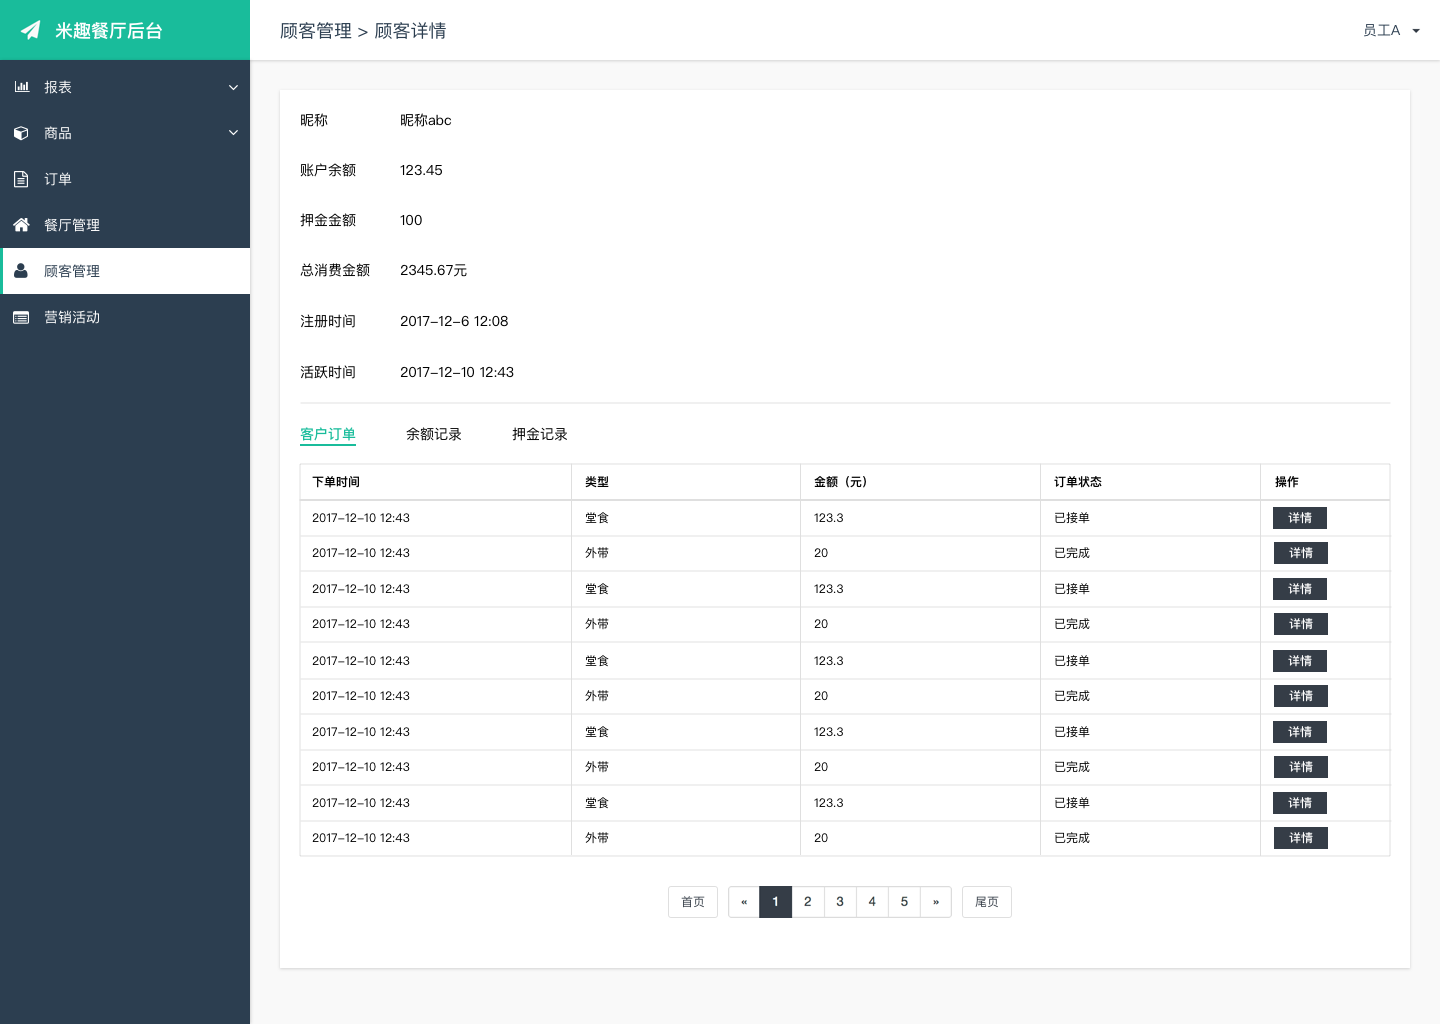
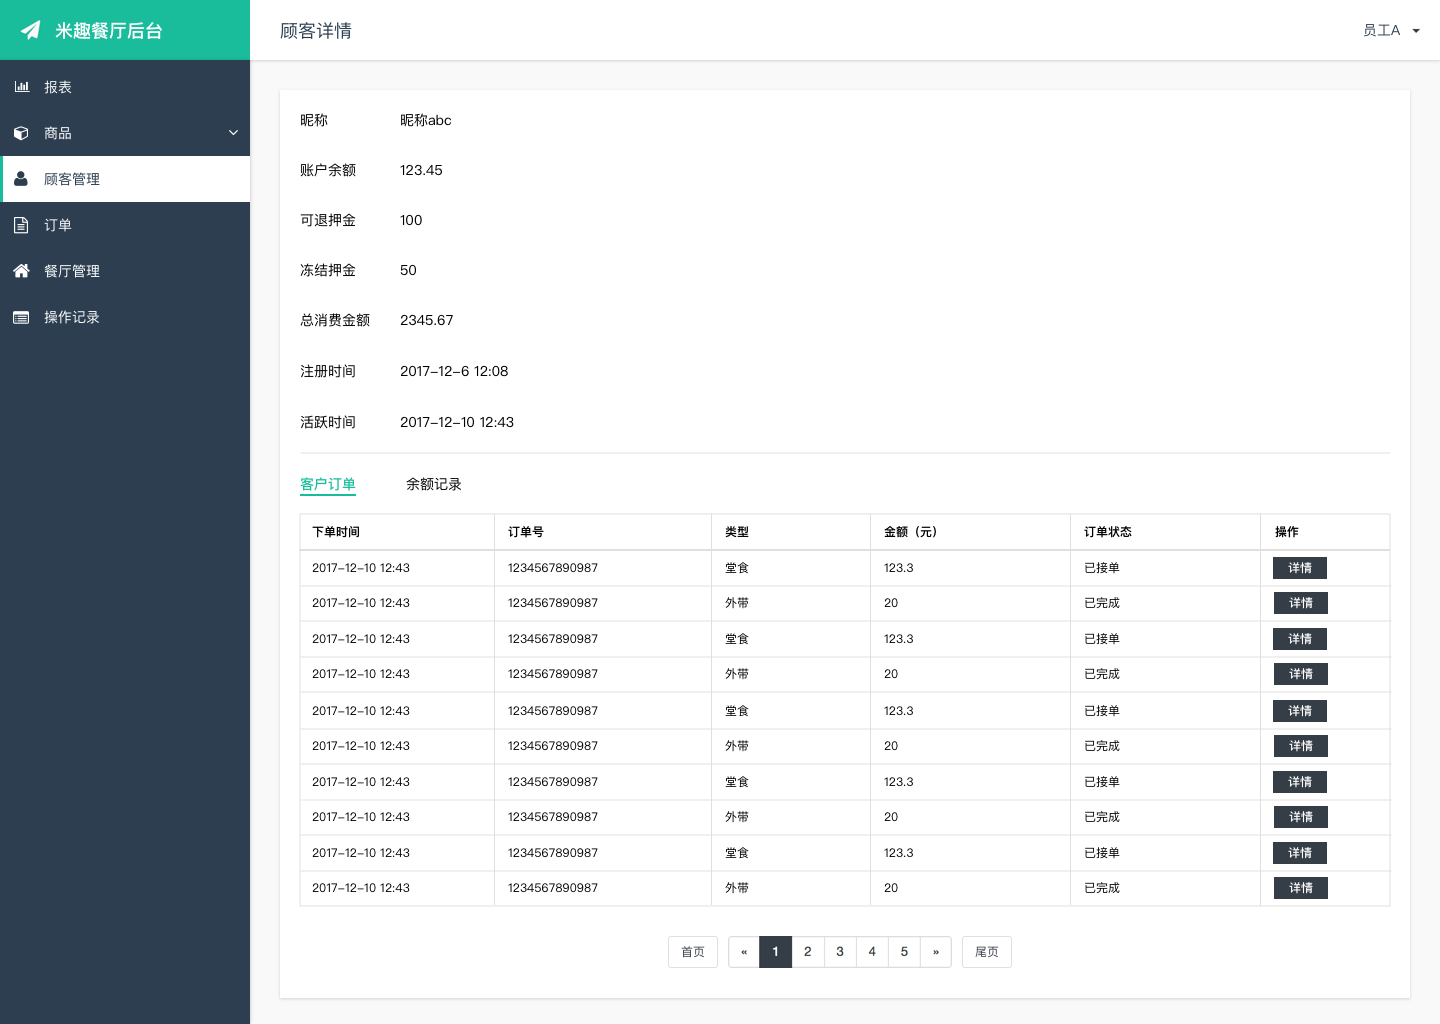
guest

diff --git a/files/d11顾客详情/data.js b/files/d11顾客详情/data.js
@@ -1,7 +1,7 @@
 $axure.loadCurrentPage(
 (function() {
     var _ = function() { var r={},a=arguments; for(var i=0; i<a.length; i+=2) r[a[i]]=a[i+1]; return r; }
-    var _creator = function() { return _(b,c,d,e,f,g,h,g,i,[j],k,_(l,m,n,o,p,q,r,_(),s,_(t,u,v,w,x,_(y,z,A,B),C,null,D,w,E,w,F,G,H,null,I,J,K,L,M,N,O,J),P,_(),Q,_(),R,_(S,[_(T,U,V,W,X,Y,n,Z,ba,Z,bb,bc,s,_(bd,_(be,bf,bg,bh),t,bi,bj,_(bk,bl,bm,bl)),P,_(),bn,_(),S,[_(T,bo,V,W,X,null,bp,bc,n,bq,ba,br,bb,bc,s,_(bd,_(be,bf,bg,bh),t,bi,bj,_(bk,bl,bm,bl)),P,_(),bn,_())],bs,_(bt,bu)),_(T,bv,V,W,X,bw,n,bx,ba,bx,bb,bc,s,_(t,by,bj,_(bk,bz,bm,bA)),P,_(),bn,_(),S,[_(T,bB,V,W,X,null,bp,bc,n,bq,ba,br,bb,bc,s,_(t,by,bj,_(bk,bz,bm,bA)),P,_(),bn,_())],bs,_(bC,bD,bE,bF,bG,bH,bI,bJ)),_(T,bK,V,W,X,bL,n,bM,ba,bM,bb,bc,s,_(bN,bO,bd,_(be,bP,bg,bl),t,bQ,bj,_(bk,bR,bm,bS),bT,_(y,z,A,bU,bV,bW),bX,bY),P,_(),bn,_(),S,[_(T,bZ,V,W,X,null,bp,bc,n,bq,ba,br,bb,bc,s,_(bN,bO,bd,_(be,bP,bg,bl),t,bQ,bj,_(bk,bR,bm,bS),bT,_(y,z,A,bU,bV,bW),bX,bY),P,_(),bn,_())],ca,g),_(T,cb,V,W,X,bw,n,bx,ba,bx,bb,bc,s,_(t,by,bj,_(bk,cc,bm,cd)),P,_(),bn,_(),S,[_(T,ce,V,W,X,null,bp,bc,n,bq,ba,br,bb,bc,s,_(t,by,bj,_(bk,cc,bm,cd)),P,_(),bn,_())],bs,_(bC,cf,bE,cg,bG,ch)),_(T,ci,V,W,X,bL,n,bM,ba,bM,bb,bc,s,_(bN,bO,bd,_(be,cj,bg,bl),t,bQ,bj,_(bk,ck,bm,cl),bT,_(y,z,A,bU,bV,bW),bX,bY),P,_(),bn,_(),S,[_(T,cm,V,W,X,null,bp,bc,n,bq,ba,br,bb,bc,s,_(bN,bO,bd,_(be,cj,bg,bl),t,bQ,bj,_(bk,ck,bm,cl),bT,_(y,z,A,bU,bV,bW),bX,bY),P,_(),bn,_())],ca,g),_(T,cn,V,W,X,Y,n,Z,ba,Z,bb,bc,s,_(bd,_(be,bf,bg,bh),t,bi,bj,_(bk,bl,bm,co)),P,_(),bn,_(),S,[_(T,cp,V,W,X,null,bp,bc,n,bq,ba,br,bb,bc,s,_(bd,_(be,bf,bg,bh),t,bi,bj,_(bk,bl,bm,co)),P,_(),bn,_())],bs,_(bt,cq)),_(T,cr,V,W,X,Y,n,Z,ba,Z,bb,bc,s,_(bd,_(be,bf,bg,bh),t,bi,bj,_(bk,bl,bm,cs)),P,_(),bn,_(),S,[_(T,ct,V,W,X,null,bp,bc,n,bq,ba,br,bb,bc,s,_(bd,_(be,bf,bg,bh),t,bi,bj,_(bk,bl,bm,cs)),P,_(),bn,_())],bs,_(bt,cu)),_(T,cv,V,W,X,bw,n,bx,ba,bx,bb,bc,s,_(t,by,bj,_(bk,cw,bm,cx)),P,_(),bn,_(),S,[_(T,cy,V,W,X,null,bp,bc,n,bq,ba,br,bb,bc,s,_(t,by,bj,_(bk,cw,bm,cx)),P,_(),bn,_())],bs,_(bC,cz,bE,ch)),_(T,cA,V,W,X,bL,n,bM,ba,bM,bb,bc,s,_(bN,bO,bd,_(be,cB,bg,bl),t,bQ,bj,_(bk,cC,bm,cD),bT,_(y,z,A,bU,bV,bW),bX,bY),P,_(),bn,_(),S,[_(T,cE,V,W,X,null,bp,bc,n,bq,ba,br,bb,bc,s,_(bN,bO,bd,_(be,cB,bg,bl),t,bQ,bj,_(bk,cC,bm,cD),bT,_(y,z,A,bU,bV,bW),bX,bY),P,_(),bn,_())],ca,g),_(T,cF,V,W,X,bw,n,bx,ba,bx,bb,bc,s,_(t,by,bj,_(bk,cG,bm,cH)),P,_(),bn,_(),S,[_(T,cI,V,W,X,null,bp,bc,n,bq,ba,br,bb,bc,s,_(t,by,bj,_(bk,cG,bm,cH)),P,_(),bn,_())],bs,_(bC,cJ,bE,cK,bG,ch)),_(T,cL,V,W,X,bL,n,bM,ba,bM,bb,bc,s,_(bN,bO,bd,_(be,cB,bg,bl),t,bQ,bj,_(bk,cM,bm,cN),bT,_(y,z,A,bU,bV,bW),bX,bY),P,_(),bn,_(),S,[_(T,cO,V,W,X,null,bp,bc,n,bq,ba,br,bb,bc,s,_(bN,bO,bd,_(be,cB,bg,bl),t,bQ,bj,_(bk,cM,bm,cN),bT,_(y,z,A,bU,bV,bW),bX,bY),P,_(),bn,_())],ca,g)])),cP,_(),cQ,_(cR,_(cS,cT),cU,_(cS,cV),cW,_(cS,cX),cY,_(cS,cZ),da,_(cS,db),dc,_(cS,dd),de,_(cS,df),dg,_(cS,dh),di,_(cS,dj),dk,_(cS,dl),dm,_(cS,dn),dp,_(cS,dq),dr,_(cS,ds),dt,_(cS,du),dv,_(cS,dw),dx,_(cS,dy),dz,_(cS,dA),dB,_(cS,dC),dD,_(cS,dE),dF,_(cS,dG),dH,_(cS,dI),dJ,_(cS,dK)));}; 
-var b="url",c="d11顾客详情.html",d="generationDate",e=new Date(1512615312652.13),f="isCanvasEnabled",g=false,h="isAdaptiveEnabled",i="variables",j="OnLoadVariable",k="page",l="packageId",m="a7fbc9f8a46042c29b374ab9f04f3600",n="type",o="Axure:Page",p="name",q="D11顾客详情",r="notes",s="style",t="baseStyle",u="627587b6038d43cca051c114ac41ad32",v="pageAlignment",w="near",x="fill",y="fillType",z="solid",A="color",B=0xFFFFFFFF,C="image",D="imageHorizontalAlignment",E="imageVerticalAlignment",F="imageRepeat",G="auto",H="favicon",I="sketchFactor",J="0",K="colorStyle",L="appliedColor",M="fontName",N="Applied Font",O="borderWidth",P="adaptiveStyles",Q="interactionMap",R="diagram",S="objects",T="id",U="577031b7fb6a4a74a74490f616cc4025",V="label",W="",X="friendlyType",Y="图片",Z="imageBox",ba="styleType",bb="visible",bc=true,bd="size",be="width",bf=1200,bg="height",bh=853,bi="75a91ee5b9d042cfa01b8d565fe289c0",bj="location",bk="x",bl=20,bm="y",bn="imageOverrides",bo="49e597aaccd94044a09d335a2d01bc1f",bp="isContained",bq="richTextPanel",br="paragraph",bs="images",bt="normal~",bu="images/d11顾客详情/regen/u0.png",bv="05545ae516f84eaebd1bbb819994627a",bw="连接线",bx="connector",by="699a012e142a4bcba964d96e88b88bdf",bz=457.333333333333,bA=330.666666666667,bB="b977aaa5d0344440997c1f4cd4866df8",bC="0~",bD="images/d11顾客详情/regen/u2_seg0.png",bE="1~",bF="images/d11顾客详情/regen/u2_seg1.png",bG="2~",bH="images/d11顾客详情/regen/u2_seg2.png",bI="3~",bJ="images/d11顾客详情/regen/u2_seg3.png",bK="a4954d6bfb1b4527aa94bfa44525c377",bL="矩形",bM="vectorShape",bN="fontWeight",bO="700",bP=85,bQ="8c7a4c5ad69a4369a5f7788171ac0b32",bR=543,bS=321,bT="foreGroundFill",bU=0xFFFF6699,bV="opacity",bW=1,bX="fontSize",bY="14px",bZ="238312c9a6264a63b20802d9c756155f",ca="generateCompound",cb="0f3c440de45d4e29a81dbd4feace34ac",cc=1126,cd=451,ce="2e68c729e68d494f83094353cdb42b35",cf="images/d11顾客详情/regen/u6_seg0.png",cg="images/d11顾客详情/regen/u6_seg1.png",ch="images/d11顾客详情/regen/u6_seg2.png",ci="c044acaa484243bfbf85267702054073",cj=111,ck=1211,cl=444,cm="9cdafcddbafb429bbcd159956279dccf",cn="4d1497a770944eb5be64d60600ade4bb",co=904,cp="428d90ae474d4db5b9c4386424e99dd5",cq="images/d11顾客详情/regen/u10.png",cr="a80e4d2475514d899bd2260c87908f36",cs=1787,ct="956c8dfaf3824b2ba07cafe84f20ad7f",cu="images/d11顾客详情/regen/u12.png",cv="7581de152e754d1a95efc700ef75cd36",cw=499.333333333333,cx=382,cy="dd748804397b41f28acb109ab697aca0",cz="images/d11顾客详情/regen/u14_seg0.png",cA="f9fbd72cdf8a4863bfc005bff6909b7b",cB=57,cC=557,cD=373,cE="4972152e44d34a168ad4d9d9d86140b2",cF="f5c2983f595440e3be8064bb6eb81286",cG=314,cH=732,cI="ca41da40125447c1870ad103ce132013",cJ="images/d11顾客详情/regen/u18_seg0.png",cK="images/d11顾客详情/regen/u18_seg1.png",cL="06e3d22391c14e4fa609a925c4930942",cM=362,cN=763,cO="2dc7bb2afcc549fbb1c70f9670675fa8",cP="masters",cQ="objectPaths",cR="577031b7fb6a4a74a74490f616cc4025",cS="scriptId",cT="u0",cU="49e597aaccd94044a09d335a2d01bc1f",cV="u1",cW="05545ae516f84eaebd1bbb819994627a",cX="u2",cY="b977aaa5d0344440997c1f4cd4866df8",cZ="u3",da="a4954d6bfb1b4527aa94bfa44525c377",db="u4",dc="238312c9a6264a63b20802d9c756155f",dd="u5",de="0f3c440de45d4e29a81dbd4feace34ac",df="u6",dg="2e68c729e68d494f83094353cdb42b35",dh="u7",di="c044acaa484243bfbf85267702054073",dj="u8",dk="9cdafcddbafb429bbcd159956279dccf",dl="u9",dm="4d1497a770944eb5be64d60600ade4bb",dn="u10",dp="428d90ae474d4db5b9c4386424e99dd5",dq="u11",dr="a80e4d2475514d899bd2260c87908f36",ds="u12",dt="956c8dfaf3824b2ba07cafe84f20ad7f",du="u13",dv="7581de152e754d1a95efc700ef75cd36",dw="u14",dx="dd748804397b41f28acb109ab697aca0",dy="u15",dz="f9fbd72cdf8a4863bfc005bff6909b7b",dA="u16",dB="4972152e44d34a168ad4d9d9d86140b2",dC="u17",dD="f5c2983f595440e3be8064bb6eb81286",dE="u18",dF="ca41da40125447c1870ad103ce132013",dG="u19",dH="06e3d22391c14e4fa609a925c4930942",dI="u20",dJ="2dc7bb2afcc549fbb1c70f9670675fa8",dK="u21";
+    var _creator = function() { return _(b,c,d,e,f,g,h,g,i,[j],k,_(l,m,n,o,p,q,r,_(),s,_(t,u,v,w,x,_(y,z,A,B),C,null,D,w,E,w,F,G,H,null,I,J,K,L,M,N,O,J),P,_(),Q,_(),R,_(S,[_(T,U,V,W,X,Y,n,Z,ba,Z,bb,bc,s,_(bd,_(be,bf,bg,bh),t,bi,bj,_(bk,bl,bm,bl)),P,_(),bn,_(),S,[_(T,bo,V,W,X,null,bp,bc,n,bq,ba,br,bb,bc,s,_(bd,_(be,bf,bg,bh),t,bi,bj,_(bk,bl,bm,bl)),P,_(),bn,_())],bs,_(bt,bu)),_(T,bv,V,W,X,bw,n,bx,ba,bx,bb,bc,s,_(t,by,bj,_(bk,bz,bm,bA)),P,_(),bn,_(),S,[_(T,bB,V,W,X,null,bp,bc,n,bq,ba,br,bb,bc,s,_(t,by,bj,_(bk,bz,bm,bA)),P,_(),bn,_())],bs,_(bC,bD,bE,bF,bG,bH,bI,bJ)),_(T,bK,V,W,X,bL,n,bM,ba,bM,bb,bc,s,_(bN,bO,bd,_(be,bP,bg,bl),t,bQ,bj,_(bk,bR,bm,bS),bT,_(y,z,A,bU,bV,bW),bX,bY),P,_(),bn,_(),S,[_(T,bZ,V,W,X,null,bp,bc,n,bq,ba,br,bb,bc,s,_(bN,bO,bd,_(be,bP,bg,bl),t,bQ,bj,_(bk,bR,bm,bS),bT,_(y,z,A,bU,bV,bW),bX,bY),P,_(),bn,_())],ca,g),_(T,cb,V,W,X,bw,n,bx,ba,bx,bb,bc,s,_(t,by,bj,_(bk,cc,bm,cd)),P,_(),bn,_(),S,[_(T,ce,V,W,X,null,bp,bc,n,bq,ba,br,bb,bc,s,_(t,by,bj,_(bk,cc,bm,cd)),P,_(),bn,_())],bs,_(bC,cf,bE,cg,bG,ch)),_(T,ci,V,W,X,bL,n,bM,ba,bM,bb,bc,s,_(bN,bO,bd,_(be,cj,bg,bl),t,bQ,bj,_(bk,ck,bm,cl),bT,_(y,z,A,bU,bV,bW),bX,bY),P,_(),bn,_(),S,[_(T,cm,V,W,X,null,bp,bc,n,bq,ba,br,bb,bc,s,_(bN,bO,bd,_(be,cj,bg,bl),t,bQ,bj,_(bk,ck,bm,cl),bT,_(y,z,A,bU,bV,bW),bX,bY),P,_(),bn,_())],ca,g),_(T,cn,V,W,X,Y,n,Z,ba,Z,bb,bc,s,_(bd,_(be,bf,bg,bh),t,bi,bj,_(bk,bl,bm,co)),P,_(),bn,_(),S,[_(T,cp,V,W,X,null,bp,bc,n,bq,ba,br,bb,bc,s,_(bd,_(be,bf,bg,bh),t,bi,bj,_(bk,bl,bm,co)),P,_(),bn,_())],bs,_(bt,cq)),_(T,cr,V,W,X,bw,n,bx,ba,bx,bb,bc,s,_(t,by,bj,_(bk,cs,bm,ct)),P,_(),bn,_(),S,[_(T,cu,V,W,X,null,bp,bc,n,bq,ba,br,bb,bc,s,_(t,by,bj,_(bk,cs,bm,ct)),P,_(),bn,_())],bs,_(bC,cv,bE,ch)),_(T,cw,V,W,X,bL,n,bM,ba,bM,bb,bc,s,_(bN,bO,bd,_(be,cx,bg,bl),t,bQ,bj,_(bk,cy,bm,cz),bT,_(y,z,A,bU,bV,bW),bX,bY),P,_(),bn,_(),S,[_(T,cA,V,W,X,null,bp,bc,n,bq,ba,br,bb,bc,s,_(bN,bO,bd,_(be,cx,bg,bl),t,bQ,bj,_(bk,cy,bm,cz),bT,_(y,z,A,bU,bV,bW),bX,bY),P,_(),bn,_())],ca,g),_(T,cB,V,W,X,bw,n,bx,ba,bx,bb,bc,s,_(t,by,bj,_(bk,cC,bm,cD)),P,_(),bn,_(),S,[_(T,cE,V,W,X,null,bp,bc,n,bq,ba,br,bb,bc,s,_(t,by,bj,_(bk,cC,bm,cD)),P,_(),bn,_())],bs,_(bC,cF,bE,cG,bG,ch)),_(T,cH,V,W,X,bL,n,bM,ba,bM,bb,bc,s,_(bN,bO,bd,_(be,cx,bg,bl),t,bQ,bj,_(bk,cI,bm,cJ),bT,_(y,z,A,bU,bV,bW),bX,bY),P,_(),bn,_(),S,[_(T,cK,V,W,X,null,bp,bc,n,bq,ba,br,bb,bc,s,_(bN,bO,bd,_(be,cx,bg,bl),t,bQ,bj,_(bk,cI,bm,cJ),bT,_(y,z,A,bU,bV,bW),bX,bY),P,_(),bn,_())],ca,g)])),cL,_(),cM,_(cN,_(cO,cP),cQ,_(cO,cR),cS,_(cO,cT),cU,_(cO,cV),cW,_(cO,cX),cY,_(cO,cZ),da,_(cO,db),dc,_(cO,dd),de,_(cO,df),dg,_(cO,dh),di,_(cO,dj),dk,_(cO,dl),dm,_(cO,dn),dp,_(cO,dq),dr,_(cO,ds),dt,_(cO,du),dv,_(cO,dw),dx,_(cO,dy),dz,_(cO,dA),dB,_(cO,dC)));}; 
+var b="url",c="d11顾客详情.html",d="generationDate",e=new Date(1513144633449.51),f="isCanvasEnabled",g=false,h="isAdaptiveEnabled",i="variables",j="OnLoadVariable",k="page",l="packageId",m="a7fbc9f8a46042c29b374ab9f04f3600",n="type",o="Axure:Page",p="name",q="D11顾客详情",r="notes",s="style",t="baseStyle",u="627587b6038d43cca051c114ac41ad32",v="pageAlignment",w="near",x="fill",y="fillType",z="solid",A="color",B=0xFFFFFFFF,C="image",D="imageHorizontalAlignment",E="imageVerticalAlignment",F="imageRepeat",G="auto",H="favicon",I="sketchFactor",J="0",K="colorStyle",L="appliedColor",M="fontName",N="Applied Font",O="borderWidth",P="adaptiveStyles",Q="interactionMap",R="diagram",S="objects",T="id",U="577031b7fb6a4a74a74490f616cc4025",V="label",W="",X="friendlyType",Y="图片",Z="imageBox",ba="styleType",bb="visible",bc=true,bd="size",be="width",bf=1200,bg="height",bh=853,bi="75a91ee5b9d042cfa01b8d565fe289c0",bj="location",bk="x",bl=20,bm="y",bn="imageOverrides",bo="49e597aaccd94044a09d335a2d01bc1f",bp="isContained",bq="richTextPanel",br="paragraph",bs="images",bt="normal~",bu="images/d11顾客详情/regen/u0.png",bv="05545ae516f84eaebd1bbb819994627a",bw="连接线",bx="connector",by="699a012e142a4bcba964d96e88b88bdf",bz=457,bA=371,bB="b977aaa5d0344440997c1f4cd4866df8",bC="0~",bD="images/d11顾客详情/regen/u2_seg0.png",bE="1~",bF="images/d11顾客详情/regen/u2_seg1.png",bG="2~",bH="images/d11顾客详情/regen/u2_seg2.png",bI="3~",bJ="images/d11顾客详情/regen/u2_seg3.png",bK="a4954d6bfb1b4527aa94bfa44525c377",bL="矩形",bM="vectorShape",bN="fontWeight",bO="700",bP=85,bQ="8c7a4c5ad69a4369a5f7788171ac0b32",bR=543,bS=361,bT="foreGroundFill",bU=0xFFFF6699,bV="opacity",bW=1,bX="fontSize",bY="14px",bZ="238312c9a6264a63b20802d9c756155f",ca="generateCompound",cb="0f3c440de45d4e29a81dbd4feace34ac",cc=1126,cd=491,ce="2e68c729e68d494f83094353cdb42b35",cf="images/d11顾客详情/regen/u6_seg0.png",cg="images/d11顾客详情/regen/u6_seg1.png",ch="images/d11顾客详情/regen/u6_seg2.png",ci="c044acaa484243bfbf85267702054073",cj=111,ck=1211,cl=484,cm="9cdafcddbafb429bbcd159956279dccf",cn="4d1497a770944eb5be64d60600ade4bb",co=904,cp="428d90ae474d4db5b9c4386424e99dd5",cq="images/d11顾客详情/regen/u10.png",cr="7581de152e754d1a95efc700ef75cd36",cs=499,ct=422,cu="dd748804397b41f28acb109ab697aca0",cv="images/d11顾客详情/regen/u12_seg0.png",cw="f9fbd72cdf8a4863bfc005bff6909b7b",cx=57,cy=557,cz=413,cA="4972152e44d34a168ad4d9d9d86140b2",cB="f5c2983f595440e3be8064bb6eb81286",cC=314,cD=772,cE="ca41da40125447c1870ad103ce132013",cF="images/d11顾客详情/regen/u16_seg0.png",cG="images/d11顾客详情/regen/u16_seg1.png",cH="06e3d22391c14e4fa609a925c4930942",cI=362,cJ=803,cK="2dc7bb2afcc549fbb1c70f9670675fa8",cL="masters",cM="objectPaths",cN="577031b7fb6a4a74a74490f616cc4025",cO="scriptId",cP="u0",cQ="49e597aaccd94044a09d335a2d01bc1f",cR="u1",cS="05545ae516f84eaebd1bbb819994627a",cT="u2",cU="b977aaa5d0344440997c1f4cd4866df8",cV="u3",cW="a4954d6bfb1b4527aa94bfa44525c377",cX="u4",cY="238312c9a6264a63b20802d9c756155f",cZ="u5",da="0f3c440de45d4e29a81dbd4feace34ac",db="u6",dc="2e68c729e68d494f83094353cdb42b35",dd="u7",de="c044acaa484243bfbf85267702054073",df="u8",dg="9cdafcddbafb429bbcd159956279dccf",dh="u9",di="4d1497a770944eb5be64d60600ade4bb",dj="u10",dk="428d90ae474d4db5b9c4386424e99dd5",dl="u11",dm="7581de152e754d1a95efc700ef75cd36",dn="u12",dp="dd748804397b41f28acb109ab697aca0",dq="u13",dr="f9fbd72cdf8a4863bfc005bff6909b7b",ds="u14",dt="4972152e44d34a168ad4d9d9d86140b2",du="u15",dv="f5c2983f595440e3be8064bb6eb81286",dw="u16",dx="ca41da40125447c1870ad103ce132013",dy="u17",dz="06e3d22391c14e4fa609a925c4930942",dA="u18",dB="2dc7bb2afcc549fbb1c70f9670675fa8",dC="u19";
 return _creator();
 })());

diff --git a/d11顾客详情.html b/d11顾客详情.html
@@ -110,50 +110,41 @@
         </div>
       </div>
 
-      <!-- Unnamed (图片) -->
-      <div id="u12" class="ax_default image">
-        <img id="u12_img" class="img " src="images/d11顾客详情/regen/u12.png"/>
+      <!-- Unnamed (连接线) -->
+      <div id="u12" class="ax_default _连接线">
+        <img id="u12_seg0" class="img " src="images/d11顾客详情/regen/u12_seg0.png" alt="u12_seg0"/>
+        <img id="u12_seg1" class="img " src="images/d11顾客详情/regen/u6_seg2.png" alt="u12_seg1"/>
         <!-- Unnamed () -->
         <div id="u13" class="text" style="display: none; visibility: hidden">
           <p><span></span></p>
         </div>
       </div>
 
-      <!-- Unnamed (连接线) -->
-      <div id="u14" class="ax_default _连接线">
-        <img id="u14_seg0" class="img " src="images/d11顾客详情/regen/u14_seg0.png" alt="u14_seg0"/>
-        <img id="u14_seg1" class="img " src="images/d11顾客详情/regen/u6_seg2.png" alt="u14_seg1"/>
-        <!-- Unnamed () -->
-        <div id="u15" class="text" style="display: none; visibility: hidden">
-          <p><span></span></p>
-        </div>
-      </div>
-
       <!-- Unnamed (矩形) -->
-      <div id="u16" class="ax_default _三级标题">
-        <div id="u16_div" class=""></div>
+      <div id="u14" class="ax_default _三级标题">
+        <div id="u14_div" class=""></div>
         <!-- Unnamed () -->
-        <div id="u17" class="text" style="visibility: visible;">
+        <div id="u15" class="text" style="visibility: visible;">
           <p><span>点击切换</span></p>
         </div>
       </div>
 
       <!-- Unnamed (连接线) -->
-      <div id="u18" class="ax_default _连接线">
-        <img id="u18_seg0" class="img " src="images/d11顾客详情/regen/u18_seg0.png" alt="u18_seg0"/>
-        <img id="u18_seg1" class="img " src="images/d11顾客详情/regen/u18_seg1.png" alt="u18_seg1"/>
-        <img id="u18_seg2" class="img " src="images/d11顾客详情/regen/u6_seg2.png" alt="u18_seg2"/>
+      <div id="u16" class="ax_default _连接线">
+        <img id="u16_seg0" class="img " src="images/d11顾客详情/regen/u16_seg0.png" alt="u16_seg0"/>
+        <img id="u16_seg1" class="img " src="images/d11顾客详情/regen/u16_seg1.png" alt="u16_seg1"/>
+        <img id="u16_seg2" class="img " src="images/d11顾客详情/regen/u6_seg2.png" alt="u16_seg2"/>
         <!-- Unnamed () -->
-        <div id="u19" class="text" style="display: none; visibility: hidden">
+        <div id="u17" class="text" style="display: none; visibility: hidden">
           <p><span></span></p>
         </div>
       </div>
 
       <!-- Unnamed (矩形) -->
-      <div id="u20" class="ax_default _三级标题">
-        <div id="u20_div" class=""></div>
+      <div id="u18" class="ax_default _三级标题">
+        <div id="u18_div" class=""></div>
         <!-- Unnamed () -->
-        <div id="u21" class="text" style="visibility: visible;">
+        <div id="u19" class="text" style="visibility: visible;">
           <p><span>时间倒序</span></p>
         </div>
       </div>

diff --git a/files/d11顾客详情/styles.css b/files/d11顾客详情/styles.css
@@ -37,7 +37,7 @@
 #u2 {
   position:absolute;
   left:457px;
-  top:331px;
+  top:371px;
   width:0px;
   height:0px;
 }
@@ -99,7 +99,7 @@
 #u4 {
   position:absolute;
   left:543px;
-  top:321px;
+  top:361px;
   width:85px;
   height:20px;
   font-family:'Arial-BoldMT', 'Arial Bold', 'Arial';
@@ -118,7 +118,7 @@
 #u6 {
   position:absolute;
   left:1126px;
-  top:451px;
+  top:491px;
   width:0px;
   height:0px;
 }
@@ -173,7 +173,7 @@
 #u8 {
   position:absolute;
   left:1211px;
-  top:444px;
+  top:484px;
   width:111px;
   height:20px;
   font-family:'Arial-BoldMT', 'Arial Bold', 'Arial';
@@ -211,50 +211,28 @@
   visibility:hidden;
   word-wrap:break-word;
 }
-#u12_img {
-  position:absolute;
-  left:0px;
-  top:0px;
-  width:1200px;
-  height:853px;
-}
 #u12 {
   position:absolute;
-  left:20px;
-  top:1787px;
-  width:1200px;
-  height:853px;
-}
-#u13 {
-  position:absolute;
-  left:2px;
-  top:418px;
-  width:1196px;
-  visibility:hidden;
-  word-wrap:break-word;
-}
-#u14 {
-  position:absolute;
   left:499px;
-  top:382px;
+  top:422px;
   width:0px;
   height:0px;
 }
-#u14_seg0 {
+#u12_seg0 {
   position:absolute;
   left:0px;
   top:-4px;
   width:59px;
   height:8px;
 }
-#u14_seg1 {
+#u12_seg1 {
   position:absolute;
   left:37px;
   top:-10px;
   width:20px;
   height:20px;
 }
-#u15 {
+#u13 {
   position:absolute;
   left:-22px;
   top:-8px;
@@ -262,7 +240,7 @@
   visibility:hidden;
   word-wrap:break-word;
 }
-#u16_div {
+#u14_div {
   position:absolute;
   left:0px;
   top:0px;
@@ -281,10 +259,10 @@
   font-size:14px;
   color:#FF6699;
 }
-#u16 {
+#u14 {
   position:absolute;
   left:557px;
-  top:373px;
+  top:413px;
   width:57px;
   height:20px;
   font-family:'Arial-BoldMT', 'Arial Bold', 'Arial';
@@ -293,42 +271,42 @@
   font-size:14px;
   color:#FF6699;
 }
-#u17 {
+#u15 {
   position:absolute;
   left:0px;
   top:0px;
   width:57px;
   white-space:nowrap;
 }
-#u18 {
+#u16 {
   position:absolute;
   left:314px;
-  top:732px;
+  top:772px;
   width:0px;
   height:0px;
 }
-#u18_seg0 {
+#u16_seg0 {
   position:absolute;
   left:-4px;
   top:0px;
   width:8px;
   height:44px;
 }
-#u18_seg1 {
+#u16_seg1 {
   position:absolute;
   left:-4px;
   top:36px;
   width:49px;
   height:8px;
 }
-#u18_seg2 {
+#u16_seg2 {
   position:absolute;
   left:27px;
   top:30px;
   width:20px;
   height:20px;
 }
-#u19 {
+#u17 {
   position:absolute;
   left:-48px;
   top:32px;
@@ -336,7 +314,7 @@
   visibility:hidden;
   word-wrap:break-word;
 }
-#u20_div {
+#u18_div {
   position:absolute;
   left:0px;
   top:0px;
@@ -355,10 +333,10 @@
   font-size:14px;
   color:#FF6699;
 }
-#u20 {
+#u18 {
   position:absolute;
   left:362px;
-  top:763px;
+  top:803px;
   width:57px;
   height:20px;
   font-family:'Arial-BoldMT', 'Arial Bold', 'Arial';
@@ -367,7 +345,7 @@
   font-size:14px;
   color:#FF6699;
 }
-#u21 {
+#u19 {
   position:absolute;
   left:0px;
   top:0px;
